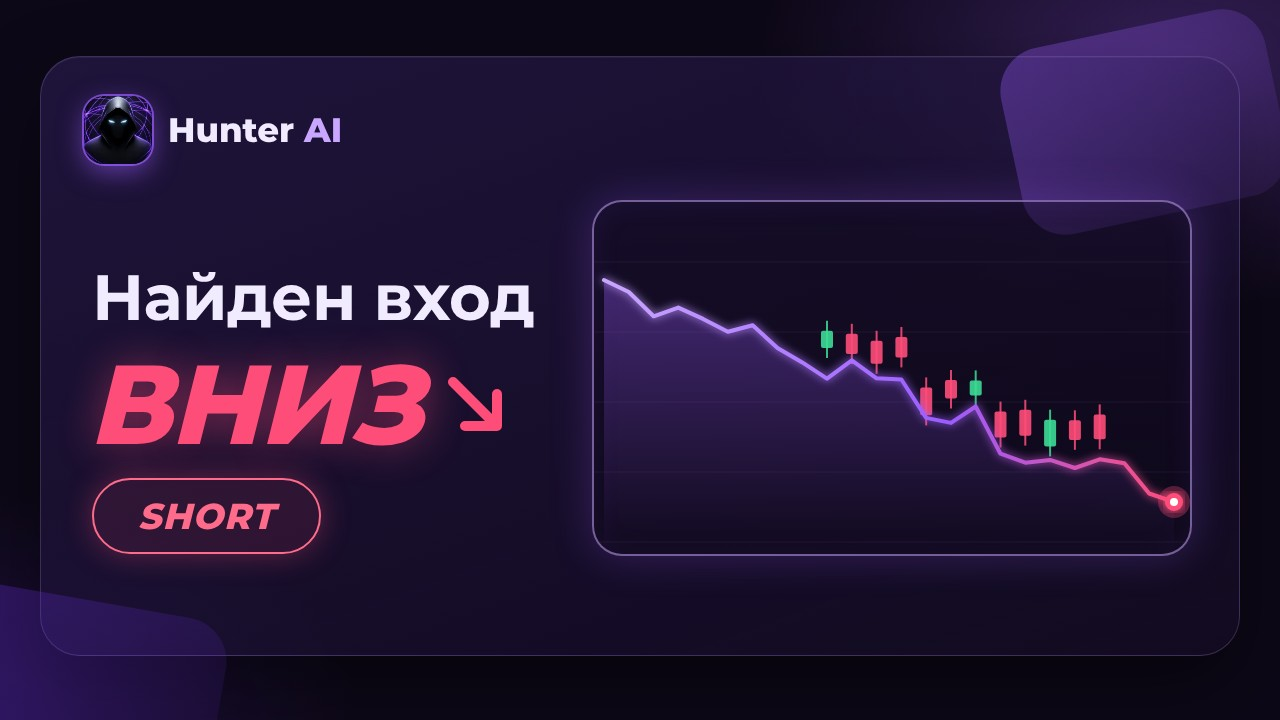
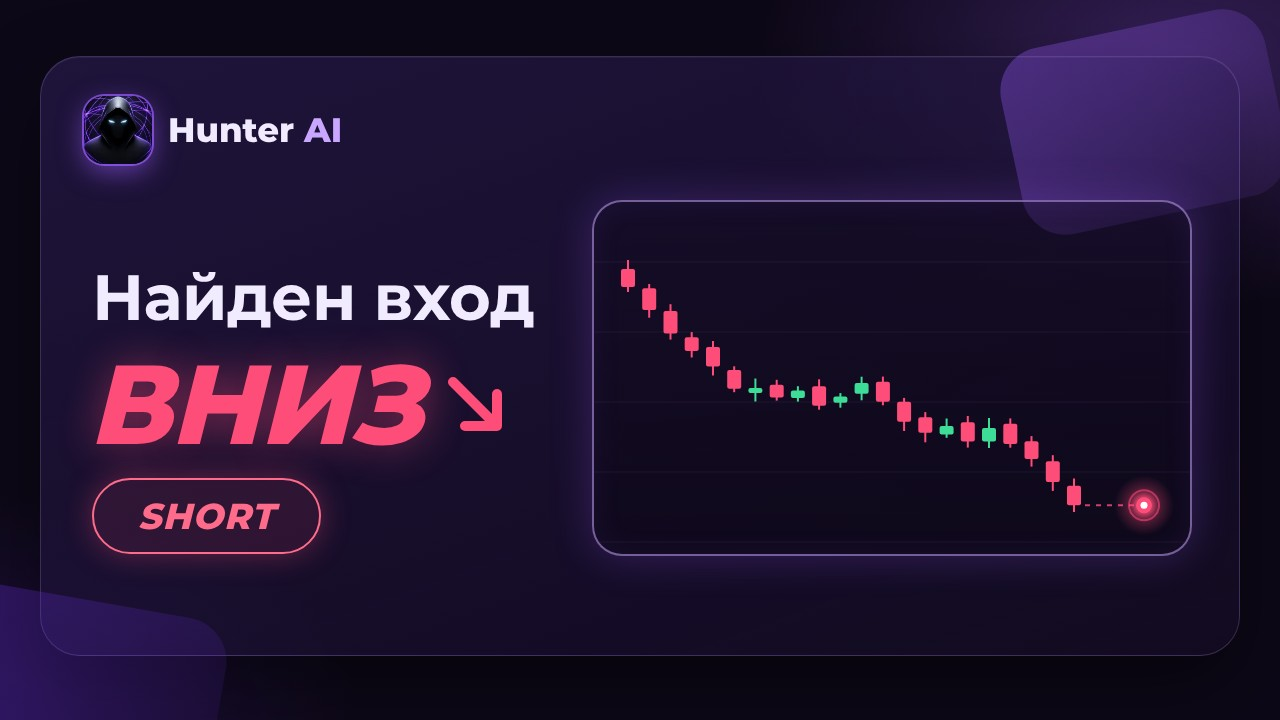
Новый сигнал: картинки «Вверх»/«Вниз» — график только свечами и точкой входа
Claude-Session: https://claude.ai/code/session_01BhzZ7NEYkxwGS4vvcmi99u

Changed region(s): [[0.4688, 0.3667, 0.9375, 0.7333]]

diff --git a/server/src/migrate.ts b/server/src/migrate.ts
@@ -11,9 +11,10 @@ export async function migrate(): Promise<void> {
   await signalImages();
 }
 
-/** Разово: картинки «Вверх» и «Вниз» в шаблон «Новый сигнал» (файлы public/img/signal-up.jpg, signal-down.jpg) */
+/** Разово: картинки «Вверх» и «Вниз» в шаблон «Новый сигнал» (файлы public/img/signal-up.jpg, signal-down.jpg).
+ *  Метка меняется, когда картинки перерисованы: signal_img_2 — график только свечами и точкой входа (вариант Б) */
 async function signalImages(): Promise<void> {
-  if ((await db.query(`SELECT 1 FROM app_settings WHERE key = 'signal_img_1'`)).rowCount) return;
+  if ((await db.query(`SELECT 1 FROM app_settings WHERE key = 'signal_img_2'`)).rowCount) return;
   const up = resolve(process.cwd(), 'public/img/signal-up.jpg');
   const down = resolve(process.cwd(), 'public/img/signal-down.jpg');
   if (!existsSync(up) || !existsSync(down)) return;
@@ -21,5 +22,5 @@ async function signalImages(): Promise<void> {
     `UPDATE push_templates SET photo = $1, photo_type = 'image/jpeg', photo_down = $2, photo_down_type = 'image/jpeg', updated_at = now() WHERE key = 'signal'`,
     [readFileSync(up), readFileSync(down)],
   );
-  if (r.rowCount) await db.query(`INSERT INTO app_settings (key, value) VALUES ('signal_img_1', '1') ON CONFLICT (key) DO NOTHING`);
+  if (r.rowCount) await db.query(`INSERT INTO app_settings (key, value) VALUES ('signal_img_2', '1') ON CONFLICT (key) DO NOTHING`);
 }

diff --git a/CLAUDE.md b/CLAUDE.md
@@ -80,7 +80,7 @@
 
 - Office → «Подключение» → «Отправленные»: в конце строки корзина — удалить акцию у лида (админ любую, тимлидер своей команды; DELETE `/connect/sends/:id`, подтверждение). Запись удаляется, дальше лиду нужна полная сумма. Если лид уже подключился по этой скидке — статус и доступ пересчитываются (`recalcLeadAccess` в office.ts): внесено меньше полной суммы — доступ закрывается, не меньше — остаётся. В журнал лида пишется, кто удалил. То же в карточке лида (админ и тимлидер): корзина у строк отправленных акций в блоке «Подключение»; если лид уже подключён по скидке — отдельный блок «Подключение по акции» с корзиной (`sendLine`, `connDoneBox` в office.html; `connectInfo.sends` отдаёт `id`).
 
-- Шаблон «Новый сигнал» (Новый сигнал → Шаблон): две картинки — «Вверх» (`push_templates.photo`) и «Вниз» (`photo_down`). Уходит по направлению сигнала, выбранному аналитиком (при «Авто» — какое выпало); нет «Вниз» — для обоих «Вверх» (`Dispatch.direction` в templates.ts, `photoSlot` в office.html). Свои картинки в стиле Hunter AI («Найден вход ВВЕРХ/ВНИЗ», LONG/SHORT, график) — `server/public/img/signal-up.jpg`, `signal-down.jpg`, разово загружены в шаблон при старте (`signalImages` в migrate.ts, метка `signal_img_1`; прежняя картинка шаблона заменена).
+- Шаблон «Новый сигнал» (Новый сигнал → Шаблон): две картинки — «Вверх» (`push_templates.photo`) и «Вниз» (`photo_down`). Уходит по направлению сигнала, выбранному аналитиком (при «Авто» — какое выпало); нет «Вниз» — для обоих «Вверх» (`Dispatch.direction` в templates.ts, `photoSlot` в office.html). Свои картинки в стиле Hunter AI («Найден вход ВВЕРХ/ВНИЗ», LONG/SHORT, график) — `server/public/img/signal-up.jpg`, `signal-down.jpg`, разово загружены в шаблон при старте (`signalImages` в migrate.ts; прежняя картинка шаблона заменена). Сейчас вариант Б: в окне только свечи и светящаяся точка входа с пунктиром от последней свечи (метка `signal_img_2`; при новой перерисовке — сменить метку).
 
 ## Открытые вопросы
 - Новая воронка: тексты бота (пуши «пополните счёт» и т.п.) пока прежние — сверить с новой воронкой. Учебные сигналы пишутся в статистику как обычные.
